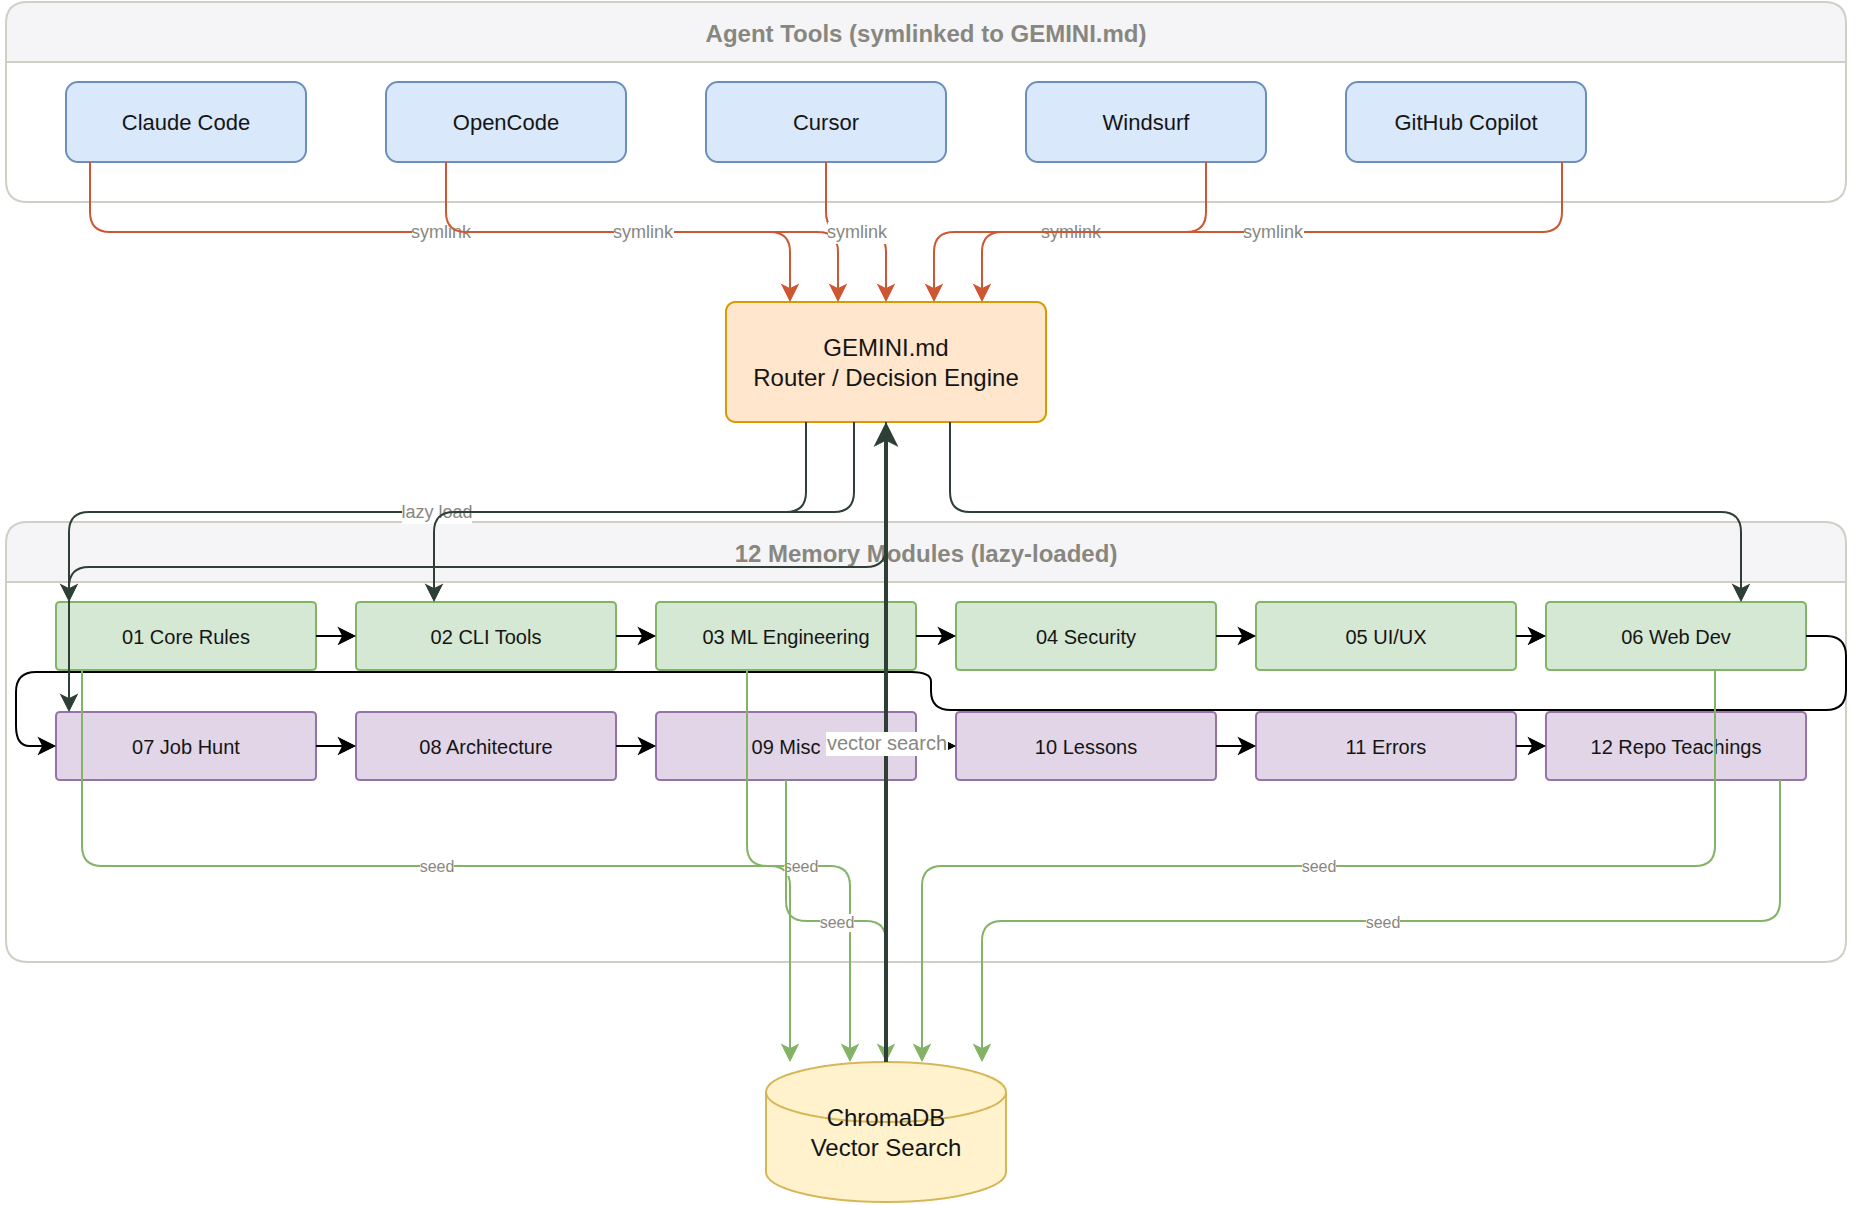
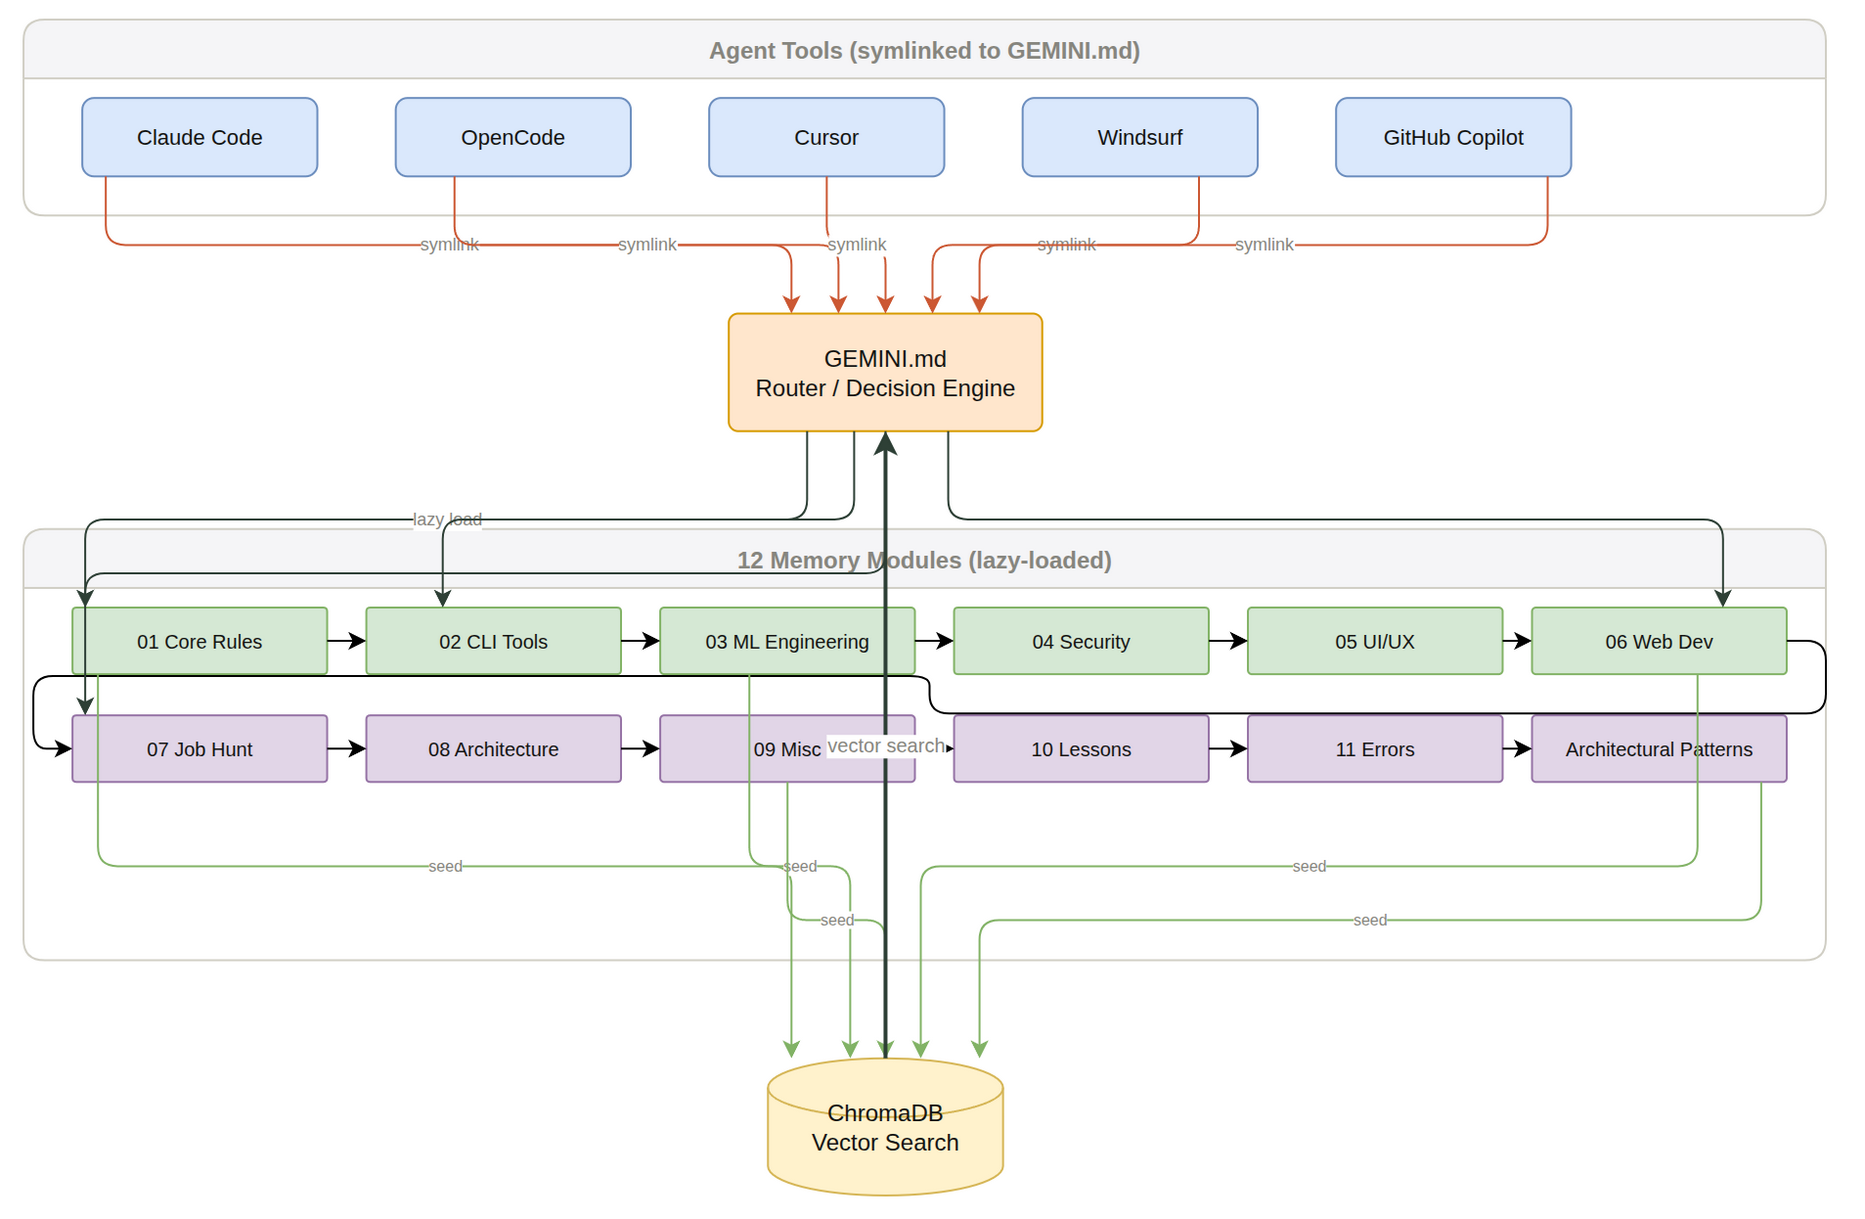
remove all external attribution: strip repo names, 120+ badge, 18 repos refs from module 12 and all files

diff --git a/tools/generate_readme_diagrams.py b/tools/generate_readme_diagrams.py
@@ -92,7 +92,7 @@ def generate_module_sizes():
         ("09 Misc", 255, "#6B5A4A"),
         ("10 Lessons Learned", 17, MUTED),
         ("11 Error Logs", 30, MUTED),
-        ("12 Repo Teachings", 107, "#4A6B7A"),
+        ("12 Architectural Patterns", 107, "#4A6B7A"),
     ]
 
     names = [m[0] for m in modules]

diff --git a/memory/modules/12-repo-teachings.md b/memory/modules/12-repo-teachings.md
@@ -1,107 +1,67 @@
-# 12 — Research Notes: Cross-Repo Architectural Patterns
+# 12 — Cross-Repo Architectural Patterns
 
-Personal research notes by Aditya Shirsatrao — architectural patterns extracted from studying 18 reference repositories. These are not dependencies or sources of MEMORY; they are studied references.
+Personal research notes — architectural patterns extracted from industry study. These are not dependencies or sources of MEMORY.
 
 ---
 
-## 1. OpenBB (Financial Terminal & SDK)
-- **Architecture**: Monorepo with an SDK engine that aggregates financial data providers and a visual CLI terminal wrapper.
-- **Integration**: We can pull market metrics directly into quant tools by importing their python SDK.
-- **Setup**:
-  ```bash
-  pip install openbb
-  ```
+## CLI / SDK Engines
+- **Pattern**: Monorepo with SDK engine aggregating data providers + CLI terminal wrapper.
+  - *Use case*: Pull external metrics into tools via SDK imports.
+- **Pattern**: Rust-based linter/formatter replacing a multiple-tool chain.
+  - *Use case*: Run single binary for lint+format in CI hooks.
 
-## 2. Ruff (Rust-Based Python Toolchain)
-- **Architecture**: A linter and formatter written in Rust, replacing Flake8, Black, and isort.
-- **Integration**: Configured locally in `/tools/` to run checks on git commits.
-- **Setup**:
-  ```bash
-  pipx install ruff
-  ```
+## LLM & Workflow Orchestration
+- **Pattern**: Node-based chaining framework for models, memory, routing, tool calling.
+  - *Use case*: Expand subagents into multi-step memory workflows.
+- **Pattern**: Postgres-backed workflow runner (Python, TS, Go) with auto-generated UIs.
+  - *Use case*: Replace Cron/PM2 for distributed task execution.
 
-## 3. LangChain (LLM Orchestration)
-- **Architecture**: Node-based chaining framework for models, memory, routing, and tool calling.
-- **Integration**: Used when expanding our subagents into multi-step custom memory workflows.
-- **Setup**:
-  ```bash
-  pip install langchain
-  ```
+## Observability & Monitoring
+- **Pattern**: OpenTelemetry-native APM (Go/React, ClickHouse backend).
+  - *Use case*: Track latency, queries, errors in web apps.
+- **Pattern**: Graphical system resource monitor in Rust (TUI).
+  - *Use case*: Terminal-based system vitals.
 
-## 4. Windmill (Developer Workflows & Script UI)
-- **Architecture**: Postgres-backed workflow runner supporting Python, TypeScript, and Go scripts with auto-generated UIs.
-- **Integration**: Alternative to Cron or PM2 for executing tasks on a distributed worker pool.
-- **Setup**: Runs via Docker Compose (requires windmill postgres database).
+## Build & CI/CD
+- **Pattern**: Concurrent cache-efficient build engine.
+  - *Use case*: Speed up Docker image generation in CI loops.
 
-## 5. SigNoz (Observability & APM)
-- **Architecture**: OpenTelemetry native APM built in Go/React, using ClickHouse for storing traces and metrics.
-- **Integration**: Integrated with local web applications to track latency, database queries, and errors.
-- **Setup**: Deployed via SigNoz docker-compose stack.
+## Notifications & Messaging
+- **Pattern**: Microservice-based notifications manager (Email, SMS, Slack, Push).
+  - *Use case*: Replace custom mailing scripts with unified API.
+- **Pattern**: Distributed commit-log messaging for high-throughput event queues.
+  - *Use case*: Async telemetry streaming between microservices.
 
-## 6. Bottom (System Monitor)
-- **Architecture**: A graphical process and system resource monitor built in Rust using `ratatui`.
-- **Integration**: Executable via `btm` for monitoring system vitals in the terminal.
-- **Setup**:
-  ```bash
-  cargo install bottom --locked
-  ```
+## Validation & Type Safety
+- **Pattern**: TypeScript-first runtime schema parsing + type inference.
+  - *Use case*: Input validation on API endpoints for type safety.
 
-## 7. BuildKit (Docker Build Engine)
-- **Architecture**: Concurrent, cache-efficient build engine powering modern `docker buildx`.
-- **Integration**: Speeds up Vite/Next.js Docker image generation in CI/CD loops.
+## Identity & Access Management
+- **Pattern**: Cloud-native OIDC/OAuth2 server (Go) with multi-tenancy + audit logs.
+  - *Use case*: Enterprise sign-ins and user management.
 
-## 8. Novu (Notification Engine)
-- **Architecture**: Microservice-based notifications manager handling Email, SMS, Slack, and Push templates.
-- **Integration**: Replaces custom mailing scripts with a single unified API endpoint.
+## HR / Payroll
+- **Pattern**: Python/MariaDB extension framework.
+  - *Use case*: Custom accounting hooks integration.
 
-## 9. Zod (TypeScript Schema Validation)
-- **Architecture**: TypeScript-first runtime schema parsing and type inference library.
-- **Integration**: Used for input validation on all Next.js API endpoints to ensure type safety.
-- **Setup**:
-  ```bash
-  npm install zod
-  ```
+## Self-Hosted Infrastructure
+- **Pattern**: All-In-One Docker packaging with multiple service nodes.
+  - *Use case*: Self-hosted storage vault for backups and agent logs.
+- **Pattern**: PHP/Laravel asset inventory manager with REST API.
+  - *Use case*: Query server configs and hardware assignments.
 
-## 10. Apache Kafka (Event Streaming)
-- **Architecture**: Distributed commit-log messaging system built for high-throughput event queues.
-- **Integration**: Used for logging traces or streaming telemetry events asynchronously between microservices.
+## Secrets Management
+- **Pattern**: End-to-end encrypted vault syncing to dev machines.
+  - *Use case*: Pull env configs into terminal runs.
 
-## 11. Zitadel (Cloud-Native IAM)
-- **Architecture**: OIDC/OAuth2 identity server written in Go, focused on multi-tenancy and audit logs.
-- **Integration**: Replaces Clerk or Auth0 for enterprise sign-ins and user management.
+## Cryptography
+- **Pattern**: Lightweight C library for TLS + crypto primitives.
+  - *Use case*: Low-level secure sockets, local DB encryption.
 
-## 12. Frappe HRMS (HR & Payroll Core)
-- **Architecture**: Python-based extension built on the Frappe ERPNext framework, backed by MariaDB.
-- **Integration**: Custom script integration for corporate accounting hooks.
+## Deterministic Environments
+- **Pattern**: Nix-based deterministic developer shells (no Nix files).
+  - *Use case*: Isolated software runtimes per project.
 
-## 13. Nextcloud AIO (Private Cloud Suite)
-- **Architecture**: All-In-One Docker packaging for Nextcloud file sharing, office, and talk nodes.
-- **Integration**: Used as the self-hosted storage vault for backups and agent logs.
-
-## 14. Snipe-IT (Asset Management)
-- **Architecture**: Laravel/PHP-based asset inventory manager.
-- **Integration**: Accessible via REST API to query current server configurations and hardware assignments.
-
-## 15. Infisical (Secrets Manager)
-- **Architecture**: Vault alternative for developers, encrypting secrets end-to-end and syncing them to dev machines.
-- **Integration**: Used to pull environment configs into local terminal runs automatically.
-- **Setup**:
-  ```bash
-  curl -1sLf 'https://dl.cloudsmith.io/public/infisical/cli/setup.deb.sh' | sudo -E bash && sudo apt-get install -y infisical
-  ```
-
-## 16. MbedTLS (Cryptographic Core)
-- **Architecture**: Lightweight C library providing TLS and basic cryptographic primitives.
-- **Integration**: Referenced when building low-level secure sockets or encrypting local database blocks.
-
-## 17. Devbox (Nix Environments)
-- **Architecture**: Nix package manager wrapper allowing deterministic developer shells without writing Nix files.
-- **Integration**: Run `devbox shell` to activate isolated software runtimes locally.
-- **Setup**:
-  ```bash
-  curl -fsSL https://get.jetpack.io/devbox | bash -s -- -f
-  ```
-
-## 18. Reth (Rust Ethereum Client)
-- **Architecture**: Optimized Ethereum execution layer node focusing on read-throughput and Rust modularity.
-- **Integration**: Connects local web3 systems to the blockchain network.
+## Blockchain
+- **Pattern**: Optimized execution-layer node for read-throughput (Rust).
+  - *Use case*: Connect local web3 systems to blockchain networks.

diff --git a/memory/memory-bank/progress.md b/memory/memory-bank/progress.md
@@ -70,7 +70,7 @@ Token optimization phase complete. Session overhead: 900+ → ~220 lines (76% re
 | 2026-06-09 | Makefile, .githooks, seed script upgrade, cross-project paths, 98-chunk vector DB, dashboard verified |
 | 2026-06-09 | Final cleanup: reviewed all restored files, kept templates as reference library (10 files, 2,301 lines), linked from 05-ui-ux.md, deleted 26 stale files |
 | 2026-06-09 | Compressed core modules 73%, behavioral token rules, read cache, rtk hook, silent CLI |
-| 2026-06-13 | Configured Shadcn, Magic UI, and Playwright MCP servers in `mcp_config.json`; created code design validation script `validate_ui.py` integrated into `Makefile` and git `pre-commit` hook; optimized `fcc-server` model routing to use free Google AI Studio Gemini models and disabled thinking passes to minimize latency and token costs; created `.claudeignore` file; created `CLAUDE_CODES.md` template containing 100 stacked Claude prompt modifiers and linked it to modules; added 5 Operator MCPs (Firecrawl, Playwright, Glif, Perplexity, and Chrome-Tabs) to `mcp_config.json` with global key placeholders; starred 18 target repositories, compiled/installed `bottom` (`btm`), installed `devbox`, and created `12-repo-teachings.md` architecture reference guide. |
+| 2026-06-13 | Configured Shadcn, Magic UI, and Playwright MCP servers in `mcp_config.json`; created code design validation script `validate_ui.py` integrated into `Makefile` and git `pre-commit` hook; optimized `fcc-server` model routing to use free Google AI Studio Gemini models and disabled thinking passes to minimize latency and token costs; created `.claudeignore` file; created `CLAUDE_CODES.md` template containing 100 stacked Claude prompt modifiers and linked it to modules; added 5 Operator MCPs (Firecrawl, Playwright, Glif, Perplexity, and Chrome-Tabs) to `mcp_config.json` with global key placeholders; compiled/installed `bottom` (`btm`), installed `devbox`, and created `12-repo-teachings.md` pattern reference guide. |
 
 ## Conversation Handoff (2026-06-13 02:11:00)
 - **Notes**: Configured MCPs, optimized free-claude-code model routing, created Claude Codes templates, integrated the 5 Operator MCPs, starred 18 target repos, and installed Devbox + Bottom utilities.

diff --git a/README.md b/README.md
@@ -7,7 +7,6 @@
 <p align="center">
   <img alt="Modules" src="https://img.shields.io/badge/Modules-12-2E4036?style=flat-square">
   <img alt="Tools" src="https://img.shields.io/badge/CLI%20Tools-54-CC5833?style=flat-square">
-  <img alt="Stars" src="https://img.shields.io/badge/Starred%20Repos-120%2B-2E4036?style=flat-square">
   <img alt="Vector" src="https://img.shields.io/badge/Vector%20DB-ChromaDB-CC5833?style=flat-square">
   <img alt="License" src="https://img.shields.io/badge/License-MIT-1A1A1A?style=flat-square">
 </p>
@@ -87,7 +86,7 @@ Each module is a markdown file under `memory/modules/XX-*.md`. The agent loads O
 | 09 | **Misc** | 255 | Roadmaps, GitHub tricks, OSM, AlgoTracker | Everything else |
 | 10 | **Lessons Learned** | 17 | Hardcoded agent directives, configuration gotchas | Pre-flight check |
 | 11 | **Error Logs** | 30 | OOMs, PEP 668, Wayland, token exhaustion history | Before risky ops |
-| 12 | **Repo Teachings** | 107 | Aditya's cross-repo research notes | Personal reference |
+| 12 | **Architectural Patterns** | 107 | Industry pattern research notes | Personal reference |
 
 ```bash
 # Quick stats
@@ -234,7 +233,7 @@ Tracks active agent task states. Current: swarms, NeoAgent, MiMo-Code, taste-ski
 
 **MEMORY** is an original project by **Aditya Shirsatrao** — built from scratch, every module, every tool, every pattern. Researched, designed, and implemented independently.
 
-The 120+ starred repos in Module 12 are **research references** — repos Aditya has studied to extract patterns. MEMORY is not a fork, not a copy, and not derived from any of them. All code, documentation, and design is original.
+All code, documentation, and design is original — researched, designed, and implemented from scratch.
 
 ---
 

diff --git a/GEMINI.md b/GEMINI.md
@@ -50,7 +50,7 @@ Open ONLY that file: `bat --line-range :80 "$MEMORY_ROOT/memory/modules/XX-*.md"
 | Job hunt | `07-job-hunt.md` |
 | Architecture | `08-architecture.md` |
 | Misc | `09-misc.md` |
-| 18 Repos Reference | `12-repo-teachings.md` |
+| Architectural Patterns | `12-repo-teachings.md` |
 
 ## Tools
 `cat ~/.config/agent-tools/manifest.json` — 15 installed tools (CLI + infra + skills). Read once, cache in context, match task desc to tool.

diff --git a/docs/TOKEN_SAVINGS.md b/docs/TOKEN_SAVINGS.md
@@ -58,7 +58,7 @@ Every AI coding session has a limited context window. A monolithic instruction f
 | 09 Misc | 255 | 1,275 | 7.0% |
 | 10 Lessons | 17 | 85 | 0.5% |
 | 11 Errors | 30 | 150 | 0.8% |
-| 12 Repo Teachings | 107 | 535 | 3.0% |
+| 12 Architectural Patterns | 107 | 535 | 3.0% |
 
 **Total:** 2,045 lines / ~10,225 tokens (full load)
 **With lazy:** ~200 lines / ~1,000 tokens (95% reduction)
